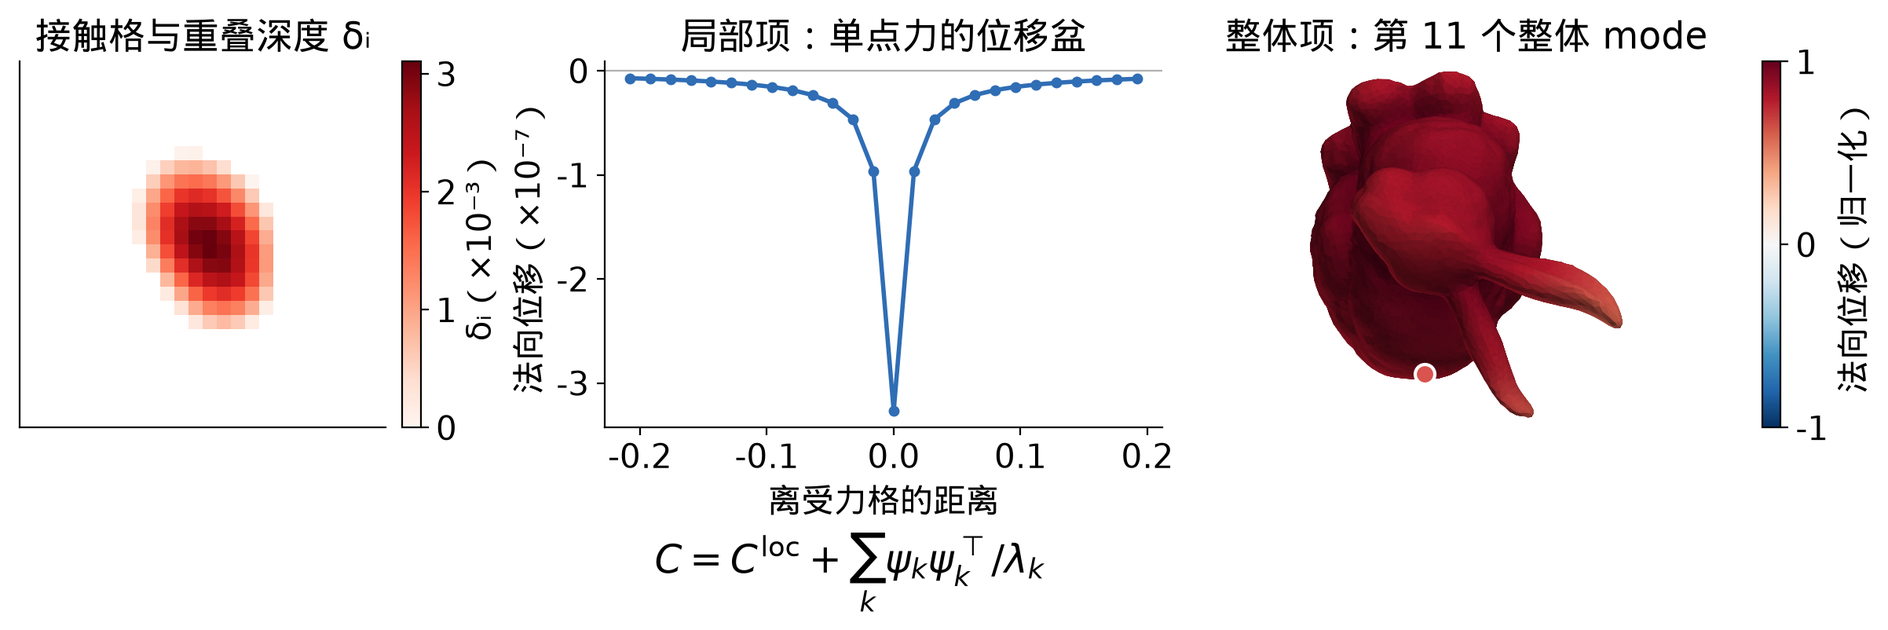
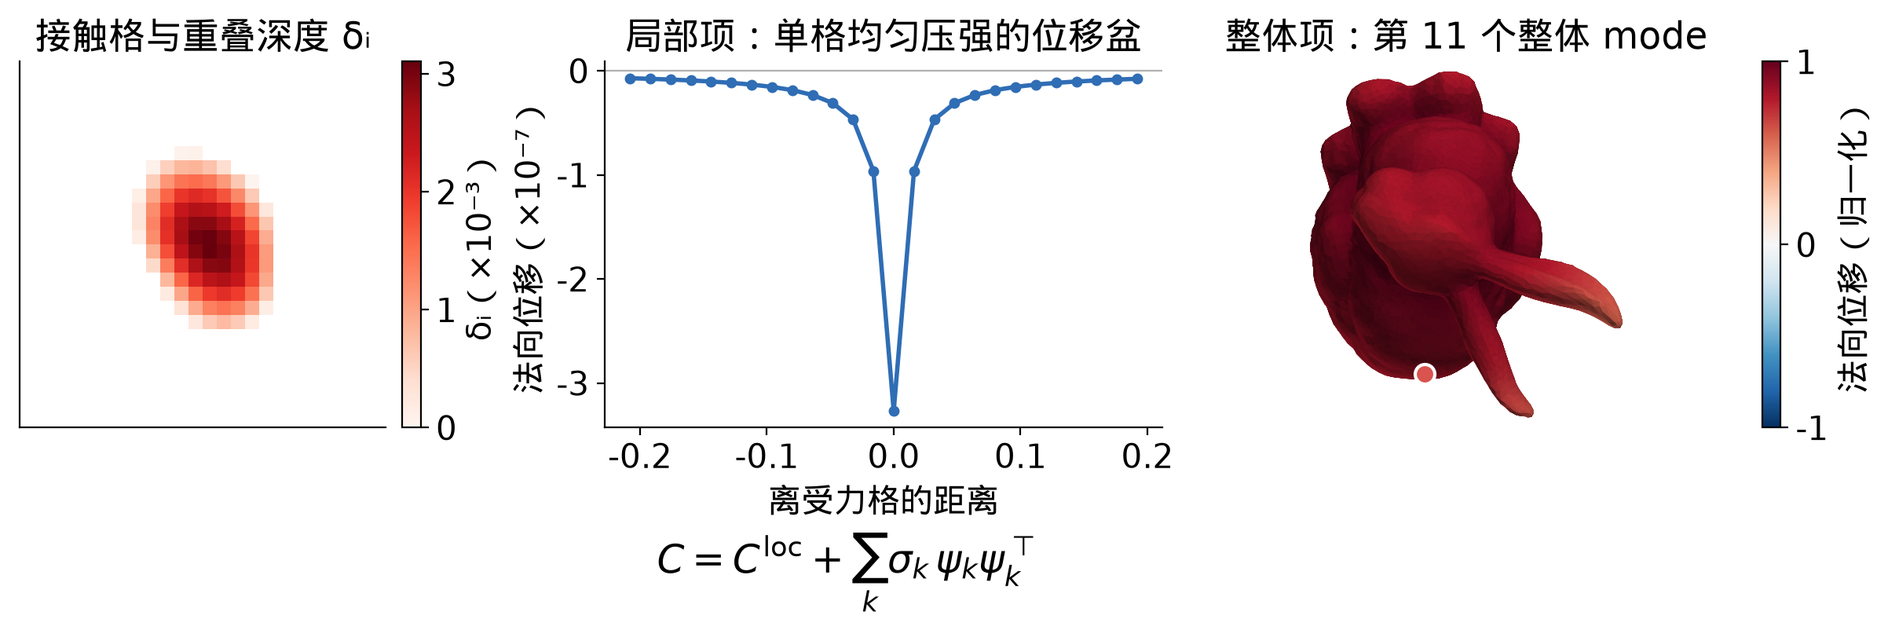
week5: fix 22 sentences per code audit + 4 follow-ups (C formula sigma, h^2, QP wording, F3 panel title)

Changed region(s): [[0.312, 0.0312, 0.624, 0.0935], [0.3432, 0.8416, 0.5616, 0.9352], [0.4368, 0.9352, 0.468, 0.9663]]

diff --git a/week5.html b/week5.html
@@ -242,7 +242,7 @@ html.annot-on #annot-capture { display: block; }
   html.annot-fixed pre, html.annot-fixed mjx-container[display="true"] { overflow: visible; }
 }
 </style>
-<script>window.NIPC_PAGE = "f2e717bc0130";</script>
+<script>window.NIPC_PAGE = "3a3fa3fbfd8e";</script>
 <script>window.MathJax = {tex: {inlineMath: [["\\(", "\\)"]], displayMath: [["\\[", "\\]"]]}, svg: {fontCache: "global"}};</script>
 <script src="https://cdn.jsdelivr.net/npm/mathjax@3.2.2/es5/tex-svg.js" async></script>
 <a class="skip" href="#content">跳转到正文</a><div id="progress" aria-hidden="true"></div>
@@ -258,29 +258,29 @@ html.annot-on #annot-capture { display: block; }
 <a class="toc-level-2" href="#w9">9. 9. 为什么慢、卡在哪</a>
 <a class="toc-level-2" href="#w10">10. 10. 下一步</a></nav></details></aside><main id="content"><div class="eyebrow">NEURAL-IPC <span>·</span> WEEKLY REPORT</div><article>
 <header class="top"><h1>第 5–6 周：skeleton 在 edge case 上是否成立</h1></header>
-<div class="lead"><p>我们在 17 类刻意刁难的 edge case 上测了 skeleton，没有一类整体失效，它也比 hydroelastic 准得多。目前偏差最大的情况出在 mode 取得不够，公式本身没有发现问题。</p></div>
+<div class="lead"><p>我们在 17 类刻意刁难的 edge case 上测了 skeleton，没有一类整体失效，它也比 hydroelastic 准得多。目前发现的最大一处偏差（龙鳍，只取 24 个 mode 时偏硬 36%）出在 mode 取得不够，加够 mode 后回到 1.1 附近；公式本身没有发现问题。</p></div>
 <section id="w1"><h2>1. 要算什么</h2>
 <figure style="margin:12px 0"><img src="assets/images/w5t_F1_energy_split.png" width="2379" height="678" style="width:100%;max-width:100%;height:auto" alt="兔背压平块：粗状态下两物体重叠约 0.0030（中左）；锁住 12 个 affine DoF、让精细模型松弛后，接触处各自压陷（中右，竖直放大 10 倍）。粗模型能量 Π(Φz) 几乎为零，松弛后是 0.01942，两者之差就是 U。" loading="lazy"><figcaption>兔背压平块：粗状态下两物体重叠约 0.0030（中左）；锁住 12 个 affine DoF、让精细模型松弛后，接触处各自压陷（中右，竖直放大 10 倍）。粗模型能量 Π(Φz) 几乎为零，松弛后是 0.01942，两者之差就是 U。</figcaption></figure>
 <p>粗模型里每个物体只有 12 个 affine DoF，能表示整体的移动和变形，表示不了接触处被压凹的那一小块。我们要补给粗模型的就是这部分能量：</p>
 <p>\[U(z) = \min_{w} \Pi(\Phi z + \Psi w) - \Pi(\Phi z)\]</p>
 <p>也就是锁住 affine DoF 以后，让精细模型在接触处自由变形到静止，它的能量减去粗模型自己的能量。标准答案用 IPC 在精细 mesh 上算。</p>
-<p>式子里各个量的意思：\(z\) 是两个物体的 12 个 affine DoF，也就是粗模型的状态；\(\Phi z\) 是这 12 个数决定的整体变形；\(w\) 是粗模型表示不了的那部分变形，主要是接触处的局部压凹；\(\Psi w\) 是它在精细 mesh 上对应的位移；\(\Pi\) 是精细模型的总势能，包括弹性能和接触势；\(\min_w\) 表示固定 \(z\)、让 \(w\) 自己调到能量最小，也就是静止状态。</p></section>
+<p>式子里各个量的意思：\(z\) 是两个物体各自的 12 个 affine DoF（共 24 个），也就是粗模型的状态；\(\Phi z\) 是这 12 个数决定的整体变形；\(w\) 是锁住 12 个数以后剩下的全部变形：接触处的局部压凹，以及物体整体的弯、扭；\(\Psi w\) 是它在精细 mesh 上对应的位移；\(\Pi\) 是精细模型的弹性能（stable neo-Hookean）；求 \(\min_w\) 时 IPC 用接触势挡住穿透，但算 \(U\) 时只取弹性能；\(\min_w\) 表示固定 \(z\)、让 \(w\) 自己调到能量最小，也就是静止状态。</p></section>
 <section id="w2"><h2>2. Pipeline</h2>
-<div style="margin:12px 0"><p><strong>每一帧运行（inference）</strong></p><div style="line-height:2.4"><span style="display:inline-block;border:2px solid #4a7;border-radius:8px;padding:8px 12px;margin:4px 0">每个物体预处理一次：求整体变形模态和刚度</span> <span style="font-size:1.4em">→</span> <span style="display:inline-block;border:2px solid #4a7;border-radius:8px;padding:8px 12px;margin:4px 0">读入两物体的粗状态（12 自由度）</span> <span style="font-size:1.4em">→</span> <span style="display:inline-block;border:2px solid #4a7;border-radius:8px;padding:8px 12px;margin:4px 0">在重叠处铺格子，算每格要抵消的深度</span> <span style="font-size:1.4em">→</span> <span style="display:inline-block;border:2px solid #4a7;border-radius:8px;padding:8px 12px;margin:4px 0">解凸二次规划，得到接触压力和 skeleton 能量</span> <span style="font-size:1.4em">→</span> <span style="display:inline-block;border:2px solid #4a7;border-radius:8px;padding:8px 12px;margin:4px 0">neural 修正 skeleton 的偏差（待设计）</span> <span style="font-size:1.4em">→</span> <span style="display:inline-block;border:2px solid #4a7;border-radius:8px;padding:8px 12px;margin:4px 0">能量交回粗模型，推进下一帧</span></div><p><strong>离线造训练数据</strong></p><div style="line-height:2.4"><span style="display:inline-block;border:2px solid #4a7;border-radius:8px;padding:8px 12px;margin:4px 0">采各类接触构型</span> <span style="font-size:1.4em">→</span> <span style="display:inline-block;border:2px solid #4a7;border-radius:8px;padding:8px 12px;margin:4px 0">IPC 在精细网格上锁住仿射自由度、跑到静止，得到标准答案</span> <span style="font-size:1.4em">→</span> <span style="display:inline-block;border:2px solid #4a7;border-radius:8px;padding:8px 12px;margin:4px 0">线性 / 二次单元线弹性对比，估计标准答案的误差区间</span> <span style="font-size:1.4em">→</span> <span style="display:inline-block;border:2px solid #4a7;border-radius:8px;padding:8px 12px;margin:4px 0">对同一粗状态跑 skeleton</span> <span style="font-size:1.4em">→</span> <span style="display:inline-block;border:2px solid #4a7;border-radius:8px;padding:8px 12px;margin:4px 0">训练目标 = 标准答案 − skeleton</span></div><p>两排中的 skeleton 用同一份代码，所以训练时和运行时 neural 看到的输入完全一致。</p></div>
+<div style="margin:12px 0"><p><strong>每一帧运行（inference）</strong></p><div style="line-height:2.4"><span style="display:inline-block;border:2px solid #4a7;border-radius:8px;padding:8px 12px;margin:4px 0">每个物体预处理一次：求剩余柔度的 mode 和每个 mode 的柔度 σ</span> <span style="font-size:1.4em">→</span> <span style="display:inline-block;border:2px solid #4a7;border-radius:8px;padding:8px 12px;margin:4px 0">读入两物体的粗状态（每个物体 12 自由度）</span> <span style="font-size:1.4em">→</span> <span style="display:inline-block;border:2px solid #4a7;border-radius:8px;padding:8px 12px;margin:4px 0">在重叠处铺格子，算每格要抵消的深度</span> <span style="font-size:1.4em">→</span> <span style="display:inline-block;border:2px solid #4a7;border-radius:8px;padding:8px 12px;margin:4px 0">解二次规划（C 正定时是凸的），得到接触压力和 skeleton 能量</span> <span style="font-size:1.4em">→</span> <span style="display:inline-block;border:2px solid #4a7;border-radius:8px;padding:8px 12px;margin:4px 0">neural 修正 skeleton 的偏差（待设计）</span> <span style="font-size:1.4em">→</span> <span style="display:inline-block;border:2px solid #4a7;border-radius:8px;padding:8px 12px;margin:4px 0">能量交回粗模型，推进下一帧</span></div><p><strong>离线造训练数据</strong></p><div style="line-height:2.4"><span style="display:inline-block;border:2px solid #4a7;border-radius:8px;padding:8px 12px;margin:4px 0">采各类接触构型</span> <span style="font-size:1.4em">→</span> <span style="display:inline-block;border:2px solid #4a7;border-radius:8px;padding:8px 12px;margin:4px 0">IPC 在精细网格上锁住仿射自由度、跑到静止，得到标准答案</span> <span style="font-size:1.4em">→</span> <span style="display:inline-block;border:2px solid #4a7;border-radius:8px;padding:8px 12px;margin:4px 0">线性 / 二次单元线弹性对比，估计标准答案的误差区间</span> <span style="font-size:1.4em">→</span> <span style="display:inline-block;border:2px solid #4a7;border-radius:8px;padding:8px 12px;margin:4px 0">对同一粗状态跑 skeleton</span> <span style="font-size:1.4em">→</span> <span style="display:inline-block;border:2px solid #4a7;border-radius:8px;padding:8px 12px;margin:4px 0">训练目标 = 标准答案 − skeleton</span></div><p>两排中的 skeleton 用同一份代码，所以训练时和运行时 neural 看到的输入完全一致。</p></div>
 
 <p>运行时每个物体先预处理一次求出它的 mode，之后每一帧根据粗状态找出接触区，解 skeleton 得到能量，再由 neural 做小修正，交回粗仿真。造数据时用同一套 skeleton 代码，所以 neural 训练时看到的输入和运行时一样。</p></section>
 <section id="w3"><h2>3. Skeleton 怎么算</h2>
-<figure style="margin:12px 0"><img src="assets/images/w5t_F3_skeleton_parts.png" width="2404" height="802" style="width:100%;max-width:100%;height:auto" alt="同一算例：左是每格的重叠深度 δ_i；中是局部项，单位压力在半空间上压出的位移盆；右是在接触处影响最大的整体 mode（第 11 个，它的权重 1/λ 为负，让接触处比半空间更硬）。下方是两部分合起来的柔度 C。" loading="lazy"><figcaption>同一算例：左是每格的重叠深度 δ_i；中是局部项，单位压力在半空间上压出的位移盆；右是在接触处影响最大的整体 mode（第 11 个，它的权重 1/λ 为负，让接触处比半空间更硬）。下方是两部分合起来的柔度 C。</figcaption></figure>
-<p>我们把接触区铺成小格，未知量是每格上的压力，已知的是每格的重叠深度。压力会让两个物体的表面往回退，退多少由柔度 \(C\) 决定。柔度分成两部分相加：一部分把接触处附近当成一块无限大的弹性体，用 Boussinesq 解算局部压凹；另一部分用物体自己的低阶 mode 算整体的弯和扭。</p>
-<p>\[C = C^{\text{loc}} + \sum_k \frac{\psi_k\psi_k^\top}{\lambda_k}\]</p>
-<p>\(C\) 是一张「推一下会动多少」的表：第 \(i\) 行第 \(j\) 列表示在第 \(j\) 格用单位力推一下，第 \(i\) 格的表面会退多少。\(C^{\text{loc}}\) 是点力那部分，在 \(j\) 点压一下，周围会凹下去一个坑，离 \(j\) 越远凹得越浅，大约和距离成反比。\(\psi_k\) 是第 \(k\) 个 mode 的形状，比如「整条鳍往下弯」，在每个接触格上取一个值，表示这个格子在这种变形里动多少；\(\lambda_k\) 是这种变形的刚度，越小越容易发生。\(\psi_k\psi_k^\top/\lambda_k\) 的意思是：在 \(j\) 点推一下会激起多少第 \(k\) 种整体变形，这种变形又让 \(i\) 点动多少。所有 mode 加起来，就是整体弯、扭带来的位移，越软的 mode 贡献越大。\(C\) 由两个物体各自的这张表相加得到。</p>
-<p>有压力的格子，表面退回的量正好抵消重叠；没有压力的格子，表面不能穿进去。这组条件可以写成一个凸二次规划：</p>
-<p>\[U_{\text{skel}} = \max_{p \ge 0}\Big(p^\top\delta - \tfrac12 p^\top C p\Big)\]</p>
-<p>\(p\) 是每个格子上的压力，只能推不能拉，所以 \(p \ge 0\)；\(\delta\) 是每个格子原本重叠的深度；\(p^\top\delta\) 是压力把重叠推开时做的功；\(\tfrac12 p^\top C p\) 是这些压力让两个物体变形后储存的弹性能。在 \(p \ge 0\) 里让两者之差最大，解出的压力正好让有压力的格子刚好推开重叠、没压力的格子不穿透。这时最大值恰好等于 \(\tfrac12 p^\top C p\)，就是两个物体被压出的弹性能 \(U_{\text{skel}}\)。</p>
-<p>整个过程不用训练，只要几何和材料，大约一秒出结果。</p></section>
+<figure style="margin:12px 0"><img src="assets/images/w5t_F3_skeleton_parts.png" width="2404" height="802" style="width:100%;max-width:100%;height:auto" alt="同一算例：左是每格的重叠深度 δ_i；中是局部项，单位压力在半空间上压出的位移盆；右是在接触处影响最大的整体 mode（第 11 个，它的柔度 σ 为负，让接触处比半空间更硬）。下方是两部分合起来的柔度 C。" loading="lazy"><figcaption>同一算例：左是每格的重叠深度 δ_i；中是局部项，单位压力在半空间上压出的位移盆；右是在接触处影响最大的整体 mode（第 11 个，它的柔度 σ 为负，让接触处比半空间更硬）。下方是两部分合起来的柔度 C。</figcaption></figure>
+<p>我们把接触区铺成小格，未知量是每格上的压力，已知的是每格的重叠深度。压力会让两个物体的表面往回退，退多少由柔度 \(C\) 决定。柔度分成两部分相加：一部分把接触处附近当成一块无限大的弹性体，用 Boussinesq 解算局部压凹；另一部分用物体自己的剩余柔度 mode 补上半空间没算到的部分（锁住 12 个数后的有限物体柔度减去半空间柔度），主要是整体的弯和扭。</p>
+<p>\[C = C^{\text{loc}} + \sum_k \sigma_k\,\psi_k\psi_k^\top \qquad (\sigma_k\ \text{可正可负})\]</p>
+<p>\(C\) 是一张「推一下会动多少」的表：第 \(i\) 行第 \(j\) 列表示在第 \(j\) 格上加单位压强，第 \(i\) 格的表面会退多少。\(C^{\text{loc}}\) 是局部那部分，在第 \(j\) 格上均匀压一下，周围会凹下去一个坑，离 \(j\) 越远凹得越浅，大约和距离成反比。\(\psi_k\) 是第 \(k\) 个 mode 的形状，比如「整条鳍往下弯」，在每个接触格上取一个值，表示这个格子在这种变形里动多少；\(\sigma_k\) 是这种变形的柔度（有限物体比半空间多出来的柔度），可正可负：正的让接触处更软，负的让接触处更硬。\(\sigma_k\psi_k\psi_k^\top\) 的意思是：在 \(j\) 点推一下会激起多少第 \(k\) 种整体变形，这种变形又让 \(i\) 点动多少。所有 mode 加起来，就是有限物体比半空间多出（或少出）的位移，主要是整体的弯和扭；\(|\sigma_k|\) 越大的 mode 贡献越大。\(C\) 由两个物体各自的这张表相加得到。</p>
+<p>有压力的格子，表面退回的量正好抵消重叠；没有压力的格子，表面不能穿进去。这组条件可以写成一个二次规划；\(C\) 正定时它是凸的，代码每个场景都检查，不正定就不解、记数值失败：</p>
+<p>\[U_{\text{skel}} = \max_{p \ge 0} h^2\Big(p^\top\delta - \tfrac12 p^\top C p\Big)\]</p>
+<p>\(h\) 是格距（\(h^2\) 是每格面积）；\(p\) 是每个格子上的压力，只能推不能拉，所以 \(p \ge 0\)；\(\delta\) 是每个格子原本重叠的深度，再加上 IPC 两面停住时留下的平衡间隙；\(h^2 p^\top\delta\) 是压强推开重叠做的功，\(\tfrac12 h^2 p^\top C p\) 是物体被压存下的弹性能。在 \(p \ge 0\) 里让两者之差最大，解出的压力正好让有压力的格子刚好推开重叠、没压力的格子不穿透。这时最大值恰好等于 \(\tfrac12 h^2 p^\top C p\)，就是两个物体被压出的弹性能 \(U_{\text{skel}}\)。</p>
+<p>整个过程不用训练，只要几何和材料；每个物体的 mode 预处理一次要几分钟，之后每个接触状态解一次二次规划约 0.1–2 秒。</p></section>
 <section id="w4"><h2>4. 怎么判对不对</h2>
 <figure style="margin:12px 0"><img src="assets/images/w5t_F5_tier_rule.png" width="2371" height="1034" style="width:100%;max-width:100%;height:auto" alt="黑点是原始比值，彩条是修正后区间：整条落在灰带里是基本对，原始比值在带内是待定·误差小，在带外是待定·误差大。" loading="lazy"><figcaption>黑点是原始比值，彩条是修正后区间：整条落在灰带里是基本对，原始比值在带内是待定·误差小，在带外是待定·误差大。</figcaption></figure>
-<p>skeleton 能量除以标准答案，落在 0.9 到 1.1 之间就算对。标准答案自己也偏硬，因为精细 mesh 用的线性四面体在薄的地方和接近不可压时会锁死，所以每个算例我们给的是修正后的一个区间。整个区间都在 0.9 到 1.1 里记为基本对，跨过边界记为待定，只有确定是 skeleton 公式本身算不准才记为明显不对。</p></section>
+<p>skeleton 能量除以标准答案，落在 0.9 到 1.1 之间就算对。标准答案自己也偏硬，因为精细 mesh 用的线性四面体在薄的地方和接近不可压时会锁死；再加上平块网格、格距和 skeleton 的 mode 截断这几项误差，每个算例我们给的是修正后的一个区间。整个区间都在 0.9 到 1.1 里记为基本对；跨过边界，或整个在带外但还没测完（P2/P1、mode 收敛、格距、平块没有在本格实测，或原因没确认），都记为待定；只有这些都测完、确定是 skeleton 公式本身算不准，才记为明显不对。</p></section>
 <section id="w5"><h2>5. 结果</h2>
 <figure style="margin:12px 0"><img src="assets/images/w5t_F7_ratio_intervals.png" width="2391" height="1927" style="width:100%;max-width:100%;height:auto" alt="每根竖条是一个算例 skeleton ÷ IPC 的区间，灰带是 0.9–1.1；菱形是 hydroelastic，大多远离 1。" loading="lazy"><figcaption>每根竖条是一个算例 skeleton ÷ IPC 的区间，灰带是 0.9–1.1；菱形是 hydroelastic，大多远离 1。</figcaption></figure>
 <div class="tablewrap"><table>
@@ -308,7 +308,7 @@ html.annot-on #annot-capture { display: block; }
 <td>0</td>
 </tr>
 <tr>
-<td>精细仿真不收敛，没有标准答案</td>
+<td>没有有效标准答案（5 个精细仿真不收敛，1 个接触没达到设定门槛）</td>
 <td>6</td>
 </tr>
 </tbody>
@@ -344,7 +344,7 @@ html.annot-on #annot-capture { display: block; }
 <p>凹面鞍面 · 0.931 → [1.003, 1.113] · 待定·误差小</p></details>
 <details><summary>尖：兔子身上的尖处压到龙上，两个一般形状物体互压，接触在尖端。</summary><figure style="margin:12px 0"><img src="assets/images/w5t_or_013_S3_h600_1_before.png" width="1840" height="680" style="width:100%;max-width:100%;height:auto" alt="" loading="lazy"></figure>
 <p>尖 · 1.040 → [1.063, 1.184] · 待定·误差小</p></details>
-<details><summary>尺寸比：龙压兔子，两个物体大小差 1.54 倍。</summary><figure style="margin:12px 0"><img src="assets/images/w5t_ore4_007_S3_h600_1_before.png" width="1840" height="692" style="width:100%;max-width:100%;height:auto" alt="" loading="lazy"></figure>
+<details><summary>尺寸比：龙压兔子，兔子比龙大，体积约 3.6 倍（长度约 1.53 倍）。</summary><figure style="margin:12px 0"><img src="assets/images/w5t_ore4_007_S3_h600_1_before.png" width="1840" height="692" style="width:100%;max-width:100%;height:auto" alt="" loading="lazy"></figure>
 <p>尺寸比 · 0.941 → [0.920, 1.069] · 基本对</p></details>
 <details><summary>两侧都薄：两个薄的球冠壳互压，两边都会整体弯曲（理想构型的检验用例）。</summary><figure style="margin:12px 0"><img src="assets/images/w5t_CS_shell_S19_1_before.png" width="1841" height="632" style="width:100%;max-width:100%;height:auto" alt="" loading="lazy"></figure>
 <p>两侧都薄 · 0.941 → [1.014, 1.349] · 待定·误差小</p></details>
@@ -357,11 +357,11 @@ html.annot-on #annot-capture { display: block; }
 <p>两种方法都有结果的 56 个算例里，有 53 个是 skeleton 更接近标准答案。hydroelastic 的结果从标准答案的 0.10 倍到 6.5 倍都有（不含两侧都薄的球冠壳，它是 25.2 倍），skeleton 都在 0.80 到 1.11 之间。</p></section>
 <section id="w7"><h2>7. 主要发现：薄长部件要取更多 mode</h2>
 <figure style="margin:12px 0"><img src="assets/images/w5t_F9_mode_count.png" width="2387" height="753" style="width:100%;max-width:100%;height:auto" alt="龙鳍压平块：mode 数加到第 66 个时比值陡降到灰带边上；右边是第 66 个 mode 的形状，红点是接触点，正是鳍的整体弯曲。" loading="lazy"><figcaption>龙鳍压平块：mode 数加到第 66 个时比值陡降到灰带边上；右边是第 66 个 mode 的形状，红点是接触点，正是鳍的整体弯曲。</figcaption></figure>
-<p>龙背上有一条又薄又长的鳍。只取前 24 个 mode 时，skeleton 算出来比标准答案硬了 36%，一直加到第 66 个 mode 时比值陡降到 1.1 附近，这个 mode 正好是鳍的整体弯曲。所以问题出在默认只取最低的前几十个 mode，薄长部件真正起作用的那个 mode 排得太靠后，被漏掉了。</p></section>
+<p>龙背上有一条又薄又长的鳍。只取前 24 个 mode 时，skeleton 算出来比标准答案硬了 36%，一直加到第 66 个 mode 时比值陡降到 1.1 附近，这个 mode 正好是鳍的整体弯曲。所以问题出在 mode 按柔度 \(|\sigma|\) 从大到小排、只取前二十个左右（Ritz 残差 ≤ 1% 的那些），薄长部件真正起作用的那个 mode 排得太靠后，被漏掉了。</p></section>
 <section id="w8"><h2>8. 还需不需要 neural</h2>
 <p>现在还定不了。目前没有一个算例能确定是 skeleton 公式本身算不准，但还有 43 个待定，要等标准答案修正测准、mode 选取规则统一之后才知道 skeleton 还剩多少误差。如果剩下的误差在所有类别里都落在 0.9 到 1.1 之内，单靠 skeleton 就够了；如果某几类始终偏，neural 就用来补这几类。</p></section>
 <section id="w9"><h2>9. 为什么慢、卡在哪</h2>
-<p>标准答案本身很难算：要算到完全静止才准，一个算例要几分钟到一小时，粗模型整体变形大的时候干脆不收敛。标准答案偏硬，要修正它就得在同一个 mesh 上用二次单元再算一遍，这一步比算标准答案还贵，所以现在大部分算例还停在待定。另外，薄长部件起作用的 mode 排得很靠后，这些高阶 mode 本身也不好算准。</p></section>
+<p>标准答案本身很难算：要算到完全静止才准，一个算例要几分钟到一小时，粗模型整体变形大的时候干脆不收敛。标准答案偏硬，要修正它就得在同一个 mesh 上用二次单元再算一遍，每个算例还要再花几分钟到十几分钟，所以现在大部分算例还停在待定。另外，薄长部件起作用的 mode 排得很靠后，这些高阶 mode 本身也不好算准。</p></section>
 <section id="w10"><h2>10. 下一步</h2>
 <p>先定一条只看输入就能算出来的 mode 选取规则，用它把所有算例重跑一遍。然后逐个算例把标准答案的修正测准，把待定的判出来。兔耳压到 0.048 深时，补够 mode 还是硬了 11%，要查清是哪条假设不成立。最后再设计 neural 的输入和输出。</p></section>
 </article><footer class="pagefoot"><span>Neural-IPC 周汇报</span><a href="#content">返回顶部 ↑</a></footer></main></div>

diff --git a/index.html b/index.html
@@ -179,7 +179,7 @@ dialog p { font-size: 12px; text-align: center; color: var(--muted); margin: 10p
 <header class="topbar"><a class="brand" href="index.html"><span class="brand-mark">N</span> Neural-IPC <span class="brand-separator">/</span> <span class="brand-note">研究记录</span></a><nav aria-label="各周页面"><a href="index.html" aria-current="page">所有周</a><a href="week5.html">Week 5–6</a><a href="week3_4.html">Week 3–4</a><a href="week2.html">Week 2</a><a href="week1.html">Week 1</a></nav></header>
 <div class="layout single"><main id="content"><div class="eyebrow">NEURAL-IPC <span>·</span> WEEKLY REPORT</div><article>
 <header class="top"><h1>Neural-IPC 周汇报</h1></header>
-<nav class="weeks"><a class="weekcard" href="week5.html"><b>Week 5–6（第 5–6 周）</b><span>1. 要算什么 · 2. Pipeline · 3. Skeleton 怎么算 · 4. 怎么判对不对 · 5. 结果 · 6. 和 hydroelastic 比 · 7. 主要发现：薄长部件要取更多 mode · 8. 还需不需要 neural · 9. 为什么慢、卡在哪 · 10. 下一步</span><p>我们在 17 类刻意刁难的 edge case 上测了 skeleton，没有一类整体失效，它也比 hydroelastic 准得多。目前偏差最大的情况出在 mode 取得不够，公式本身没有发现问题。</p></a><a class="weekcard" href="week3_4.html"><b>Week 3–4（第 3–4 周）</b><span>要学的量 · hydro++ 为什么不够 · 我的软–软模型 · 下一步：在接触面上算 · 验证到哪：式子能否退回已知的解析结果 · 想讨论的</span><p>要学的碰撞能量；两个软物体相碰的解析解（降维法、Hertz）；标签对解析解与独立裁判；hydro、hydro++ 与死结，Genesis 中 hydro 实测；网络结构与多接触区耦合；接进引擎、体力法造标签、试训与椭圆骨架；待定事项。</p></a><a class="weekcard" href="week2.html"><b>Week 2（TODO 2026-10-04）</b><span>文献：Hydroelastic · 文献：神经网络接触模型 · 看代码 · Demo · 实验方案 · 问题与待决定</span><p>文献（hydroelastic、神经网络接触模型）、NeuralIPC 代码、Genesis + hydroelastic demo、实验方案、问题与待决定。</p></a><a class="weekcard" href="week1.html"><b>Week 1（TODO 2026-09-26）</b><span>IPC 的接触能量 · Demo：Genesis + libuipc 官方例子 · Demo：官方 IPC 测试 · 盒子实验与参数扫描 · 对生成训练数据的意义</span><p>在服务器上跑通了 Genesis + lib IPC（Genesis 的 IPC 接触底层由 libuipc 计算）：5 个 Genesis IPC 例子和 4 个 Genesis 官方 IPC 测试场景，共 9 段视频（官方测试 4 个跑完，其中官方断言通过 2 个）。然后做了「一堆物体扔进盒子」（官方 ipc_objects_falling 场景加一个盒子），对 8 个 IPC 参数做了单变量扫描，共 25 个配置。主要发现：初始穿插会被拒绝开跑；表面全程没有穿透；\(\hat d\) 越小越难解，且不能大于软体表面网格的边长；Genesis 默认 κ 1e9 会被 libuipc 夹到区间上界；官方软球 E = 1 kPa 太软，会被压塌，所以主结果用 E = 1e5。</p></a></nav>
+<nav class="weeks"><a class="weekcard" href="week5.html"><b>Week 5–6（第 5–6 周）</b><span>1. 要算什么 · 2. Pipeline · 3. Skeleton 怎么算 · 4. 怎么判对不对 · 5. 结果 · 6. 和 hydroelastic 比 · 7. 主要发现：薄长部件要取更多 mode · 8. 还需不需要 neural · 9. 为什么慢、卡在哪 · 10. 下一步</span><p>我们在 17 类刻意刁难的 edge case 上测了 skeleton，没有一类整体失效，它也比 hydroelastic 准得多。目前发现的最大一处偏差（龙鳍，只取 24 个 mode 时偏硬 36%）出在 mode 取得不够，加够 mode 后回到 1.1 附近；公式本身没有发现问题。</p></a><a class="weekcard" href="week3_4.html"><b>Week 3–4（第 3–4 周）</b><span>要学的量 · hydro++ 为什么不够 · 我的软–软模型 · 下一步：在接触面上算 · 验证到哪：式子能否退回已知的解析结果 · 想讨论的</span><p>要学的碰撞能量；两个软物体相碰的解析解（降维法、Hertz）；标签对解析解与独立裁判；hydro、hydro++ 与死结，Genesis 中 hydro 实测；网络结构与多接触区耦合；接进引擎、体力法造标签、试训与椭圆骨架；待定事项。</p></a><a class="weekcard" href="week2.html"><b>Week 2（TODO 2026-10-04）</b><span>文献：Hydroelastic · 文献：神经网络接触模型 · 看代码 · Demo · 实验方案 · 问题与待决定</span><p>文献（hydroelastic、神经网络接触模型）、NeuralIPC 代码、Genesis + hydroelastic demo、实验方案、问题与待决定。</p></a><a class="weekcard" href="week1.html"><b>Week 1（TODO 2026-09-26）</b><span>IPC 的接触能量 · Demo：Genesis + libuipc 官方例子 · Demo：官方 IPC 测试 · 盒子实验与参数扫描 · 对生成训练数据的意义</span><p>在服务器上跑通了 Genesis + lib IPC（Genesis 的 IPC 接触底层由 libuipc 计算）：5 个 Genesis IPC 例子和 4 个 Genesis 官方 IPC 测试场景，共 9 段视频（官方测试 4 个跑完，其中官方断言通过 2 个）。然后做了「一堆物体扔进盒子」（官方 ipc_objects_falling 场景加一个盒子），对 8 个 IPC 参数做了单变量扫描，共 25 个配置。主要发现：初始穿插会被拒绝开跑；表面全程没有穿透；\(\hat d\) 越小越难解，且不能大于软体表面网格的边长；Genesis 默认 κ 1e9 会被 libuipc 夹到区间上界；官方软球 E = 1 kPa 太软，会被压塌，所以主结果用 E = 1e5。</p></a></nav>
 </article><footer class="pagefoot"><span>Neural-IPC 周汇报</span><a href="#content">返回顶部 ↑</a></footer></main></div>
 <dialog id="image-viewer" aria-label="放大查看图片"><button type="button" id="close-viewer" aria-label="关闭大图">关闭 ×</button><img alt=""><p>点击图片外区域或按 Esc 关闭</p></dialog>
 <script>
